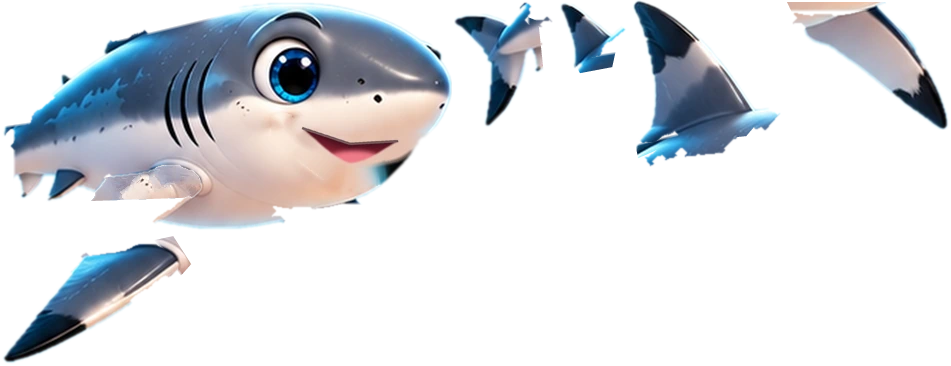
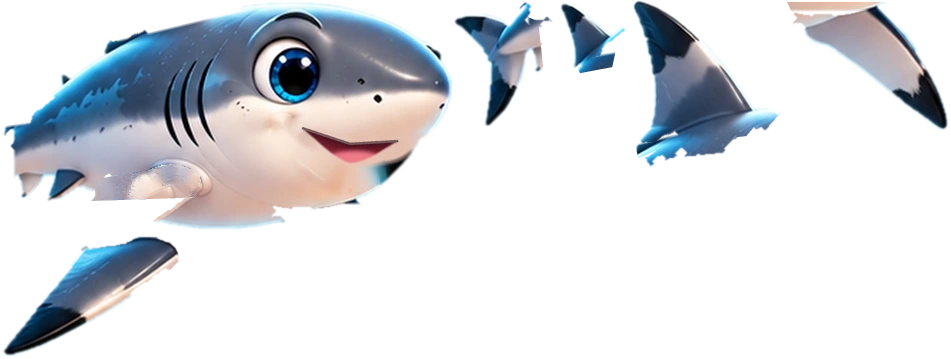
Manta wing joint clean: the near wing's card ends at its dark edge (no body shards on it), the body under front fins is filled where the fin touches at all and fully opaque (no half-clear seam), flap bends from a still root; creatures take less of the caustic web

diff --git a/game/fx/causticsMath.js b/game/fx/causticsMath.js
@@ -92,7 +92,7 @@ export const SURFACE_CAUSTICS = {
     warmth: 0.5,          // 0 = the net has the water's hue, 1 = it is white sunlight
     // Things in the water (props, plants, creatures, the swimmer; CausticsPipeline catchCaustics) catch the net on
     // their sides too, not only on their top skin: real caustics play over every lit face, softer where it turns away.
-    sides: { skin: 0.35, gain: 1.8, lit: 0.12, creature: 0.2 }   // how much of the top-skin rule they keep, how strong the net is on them, from which brightness they catch it; share of that on creatures (ropes: a hard web on a big pale body read as cracks)
+    sides: { skin: 0.35, gain: 1.8, lit: 0.12, creature: 0.12 }   // how much of the top-skin rule they keep, how strong the net is on them, from which brightness they catch it; share of that on creatures (ropes: a hard web on a big pale body read as cracks)
 };
 
 const smooth01 = (a, b, v) => { const t = Math.max(0, Math.min(1, (v - a) / (b - a))); return t * t * (3 - 2 * t); };

diff --git a/game/rig/cards.js b/game/rig/cards.js
@@ -139,7 +139,7 @@ export const ROLES = {
     // Ray wings seen from the side beat up and down in the picture plane. The beat is a bend that grows
     // from root to tip (wave; the tips lag) with only a little turn of the whole wing (sweep), so the
     // root stays attached to the body (user: no gap at the wing roots); about 0.4 Hz at a manta's effort.
-    flap:      { swing: 0.1, sweep: 0.08, wave: 0.5, k: 1.0, speed: 0.32, idle: 0.85 }
+    flap:      { swing: 0.1, sweep: 0, wave: 0.58, k: 1.0, speed: 0.32, idle: 0.85 }      // no sweep: turning the whole wing in the plane moved its root and bared the body under it (torn shards at the manta's head); the wave bends it from a still root
 };
 
 /** Triangle strip over a (cols x rows)-cell grid (rows joined by degenerate triangles): node index per strip vertex. */

diff --git a/scripts/parts/bake.py b/scripts/parts/bake.py
@@ -130,9 +130,10 @@ for key, s in spec.items():
             hint = poly_mask(p['poly'], W, H)
             if core is not None: hint *= core
             # The part's own pixels (segmented), plus the hint's overlap on the body side of the
-            # root: hidden under the body, so the card has no straight cut where it swings.
+            # root: hidden under the body, so the card has no straight cut where it swings. A front
+            # part is drawn over the body, so it gets no overlap (it showed as shards of body on it).
             m = refine(src, hint, p.get('band', BAND))
-            on_body = hint * (1 - beyond(p['root'], centre, W, H))
+            on_body = 0 if p.get('front') else hint * (1 - beyond(p['root'], centre, W, H))
             part = src.copy(); part[..., 3] *= np.maximum(m, on_body)
             c, (x0, y0) = crop(part)
             cards.append(c)
@@ -142,10 +143,16 @@ for key, s in spec.items():
             # behind the body only loses what reaches beyond its root line.
             rm = m if p.get('front') or core is not None else m * beyond(p['root'], centre, W, H)
             if p.get('front') and 'under' in p:
+                # Every pixel the part touches at all is filled (its faint soft edge kept the part's colours:
+                # light shards at the manta's head), and the filled body is as opaque as the picture there
+                # (the soft mask left a half-clear seam through it).
                 region = poly_mask(p['under'], W, H) * (src[..., 3] > 0.5)
-                known = (body[..., 3] > 0.95) * (1 - np.clip(m * 4, 0, 1))
-                body[..., :3] = synth(fill(body[..., :3], known.astype(np.float32), region * m), known, region * m)
-                body[..., 3] = np.maximum(body[..., 3] * (1 - rm), region * m * src[..., 3])
+                touched = (m > 0.02).astype(np.float32)
+                known = (body[..., 3] > 0.95) * (1 - touched)
+                body[..., :3] = synth(fill(body[..., :3], known.astype(np.float32), region * touched), known, region * touched)
+                body[..., 3] = np.maximum(body[..., 3] * (1 - rm), region * touched * src[..., 3])
+                # Faint leftovers of the part outside the filled area (its soft edge, half removed) go entirely.
+                body[..., 3] = np.where((rm > 0.02) & (region == 0) & (body[..., 3] < 0.6), 0, body[..., 3])
             else:
                 body[..., 3] *= 1 - rm
         meta[-1].update({k: p[k] for k in ('name', 'role', 'parent') if k in p})
